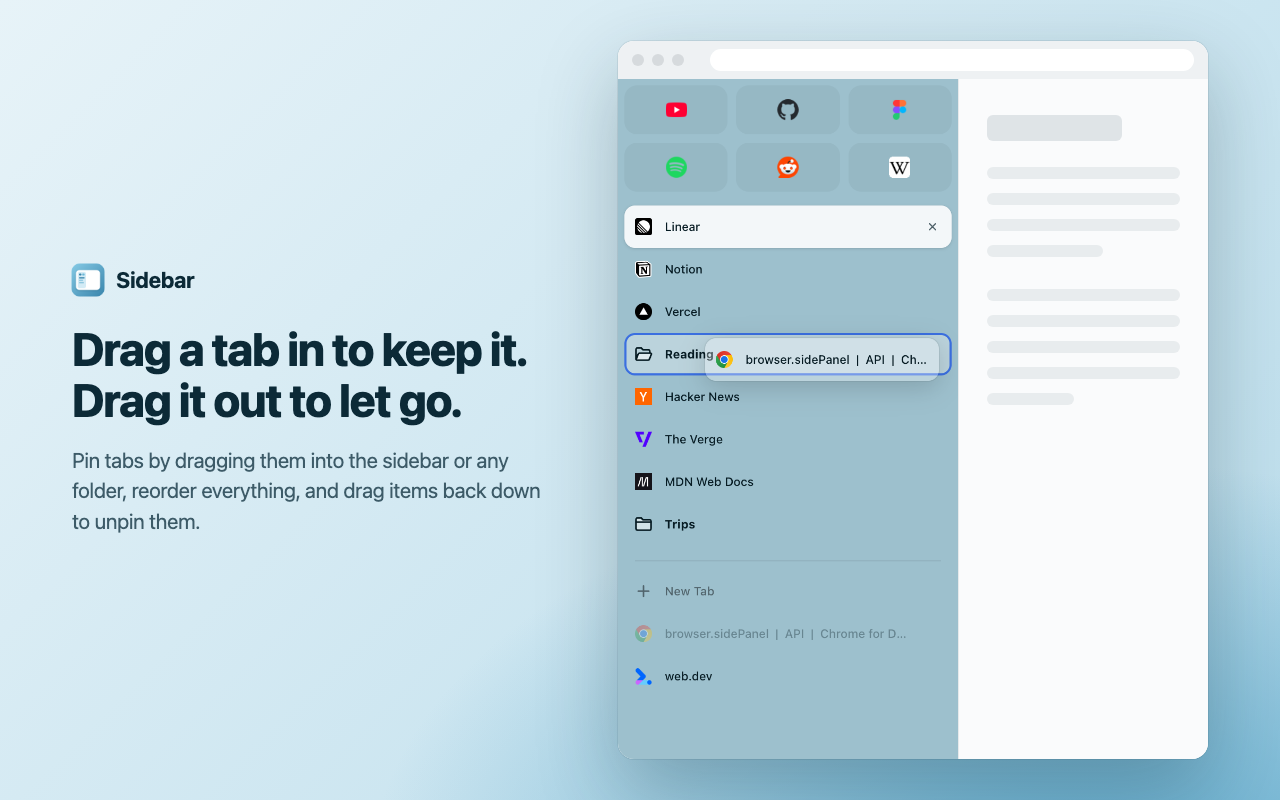
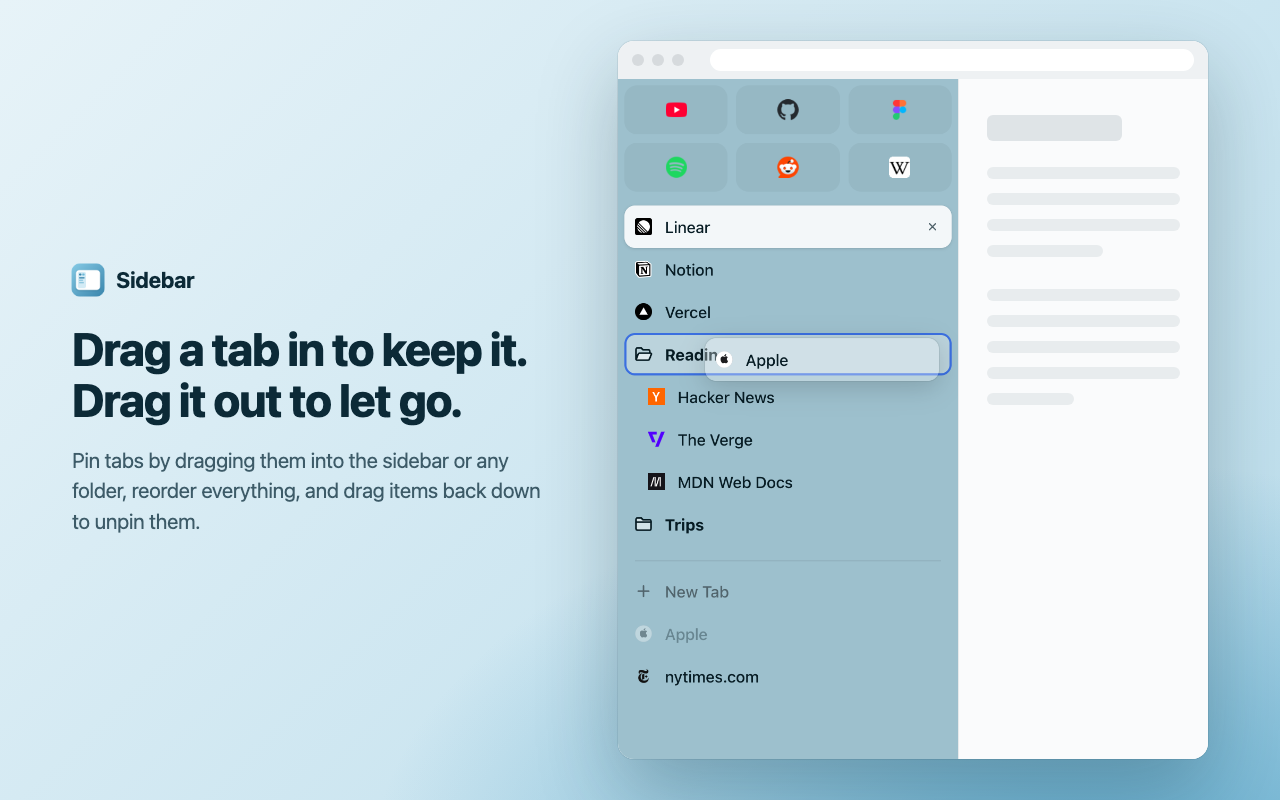
Fix panel text size, indent folder contents, add Open in Split View
- Chrome gives extension pages body { font-size: 75% }, so the panel's
  text rendered at 11.25px instead of 15px. The body now takes the size
  from :root; an e2e test guards it.
- Items inside a folder are indented 12px.
- Right-click an item or plain tab → Open in Split View (Chrome 155+
  tabs split API). Closed items open in a new tab split with the current
  one; open tabs are moved next to it, with pinned state and tab group
  matched. Favorite tabs aren't re-pinned while split.
- Store screenshots use real sites for the plain tabs.

diff --git a/src/background/controller.ts b/src/background/controller.ts
@@ -5,7 +5,7 @@ import { finalTabIndex } from '@/src/model/drop';
 import { applyOp } from '@/src/model/ops';
 import { sidebarStore } from '@/src/model/store';
 import { newId } from '@/src/model/tree';
-import type { Item, SidebarState } from '@/src/model/types';
+import type { Item, NodeId, SidebarState } from '@/src/model/types';
 
 function allItems(state: SidebarState): Item[] {
   return Object.values(state.nodes).filter((n): n is Item => n.kind === 'item');
@@ -34,7 +34,15 @@ export class Controller {
     try {
       return await task();
     } finally {
-      const { pin, unpin } = pinChanges(before, await snapshot());
+      const changes = pinChanges(before, await snapshot());
+      // A split view's two tabs must share pinned state, so a Favorite's tab stays unpinned while split.
+      const inSplit = async (id: number) => {
+        const tab = await browser.tabs.get(id).catch(() => undefined);
+        return tab?.splitViewId !== undefined && tab.splitViewId !== -1;
+      };
+      const pin = [];
+      for (const id of changes.pin) if (!(await inSplit(id))) pin.push(id);
+      const unpin = changes.unpin;
       // A tab may already be gone (closed, or the window closed); that's fine.
       await Promise.all([
         ...pin.map((id) => browser.tabs.update(id, { pinned: true }).catch(() => {})),
@@ -163,12 +171,52 @@ export class Controller {
         }
         return;
       }
+      case 'split':
+        await this.split(command.source, command.windowId);
+        return;
       case 'openFavorite': {
         const itemId = (await sidebarStore.getValue()).favorites[command.position - 1];
         if (itemId) await this.execute({ type: 'activate', itemId, windowId: command.windowId });
         return;
       }
     }
+  }
+
+  /**
+   * Puts an item's tab (or a plain tab) in a split view with the window's active tab. Chrome only
+   * splits two adjacent tabs that aren't split yet and share pinned state and tab group, so this
+   * arranges that first. An item without a tab here opens in a new tab, straight into the split.
+   */
+  private async split(source: { itemId: NodeId } | { tabId: number }, windowId: number) {
+    const [active] = await browser.tabs.query({ active: true, windowId });
+    if (active?.id === undefined) return;
+    let tabId = 'tabId' in source ? source.tabId : tabForItem(await this.links(), source.itemId, windowId);
+    if (tabId === active.id) return; // already the current tab: nothing to split with
+
+    const unsplit = async (tab: Browser.tabs.Tab) => {
+      if (tab.splitViewId !== undefined && tab.splitViewId !== -1) await browser.tabs.unsplit(tab.splitViewId);
+    };
+    await unsplit(active);
+
+    if (tabId === undefined) {
+      const item = 'itemId' in source ? (await sidebarStore.getValue()).nodes[source.itemId] : undefined;
+      if (item?.kind !== 'item') throw new Error('Nothing to open in split view');
+      const tab = await browser.tabs.create({ splitWithTabId: active.id, url: item.url, active: true });
+      if (tab.id !== undefined) await this.updateLinks((l) => linkTab(l, tab.id!, item.id, windowId));
+      return;
+    }
+
+    let tab: Browser.tabs.Tab = await browser.tabs.get(tabId);
+    await unsplit(tab);
+    if (tab.pinned !== active.pinned) tab = (await browser.tabs.update(tabId, { pinned: active.pinned })) ?? tab;
+    if (tab.groupId !== active.groupId) {
+      if (active.groupId === -1) await browser.tabs.ungroup(tabId);
+      else await browser.tabs.group({ groupId: active.groupId, tabIds: [tabId] });
+    }
+    const current = await browser.tabs.get(active.id);
+    await browser.tabs.move(tabId, { index: finalTabIndex((await browser.tabs.get(tabId)).index, current.index + 1) });
+    await browser.tabs.createSplit([active.id, tabId]);
+    await browser.tabs.update(tabId, { active: true });
   }
 
   private async moveTabTo(tabId: number, insertAt: number) {

diff --git a/e2e/sidebar.spec.ts b/e2e/sidebar.spec.ts
@@ -120,3 +120,64 @@ test('backup export and restore round-trip', async ({ context, extensionId, pane
   await expect(options.getByText('Restored')).toBeVisible();
   await expect(row(panel, 'News page')).toBeVisible();
 });
+
+test('text renders at the intended size, not Chrome’s 75% default for extension pages', async ({ panel }) => {
+  const size = await row(panel, 'News page').locator('.title').evaluate((el) => getComputedStyle(el).fontSize);
+  expect(size).toBe('15px');
+});
+
+test.describe('split view', () => {
+  const splitIds = async (worker: import('@playwright/test').Worker, ...urls: string[]) =>
+    Promise.all(urls.map(async (url) => ((await queryTabs(worker, { url }))[0] as { splitViewId?: number } | undefined)?.splitViewId));
+
+  test('opens a closed item in a new tab, split with the current tab', async ({ context, worker, panel }) => {
+    const opened = context.waitForEvent('page');
+    await row(panel, 'News page').click();
+    await (await opened).waitForURL(PAGE('news'));
+
+    await row(panel, 'Docs page').click({ button: 'right' });
+    await panel.getByRole('menuitem', { name: 'Open in Split View' }).click();
+    await expect.poll(async () => {
+      const [news, docs] = await splitIds(worker, PAGE('news'), PAGE('docs'));
+      return news !== undefined && news !== -1 && news === docs;
+    }).toBe(true);
+    // The new tab belongs to the item, so it doesn't show up as a plain tab.
+    await expect(panel.locator('.tabs .row', { hasText: 'Docs page' })).toHaveCount(0);
+  });
+
+  test('moves an item’s open tab next to the current tab instead of duplicating it', async ({ context, worker, panel }) => {
+    for (const name of ['News page', 'Docs page']) {
+      const opened = context.waitForEvent('page');
+      await row(panel, name).click();
+      await opened;
+    }
+    // A plain tab in between, so the two aren't neighbours to begin with.
+    await (await context.newPage()).goto(PAGE('between'));
+    await row(panel, 'Docs page').click(); // Docs is now the current tab
+
+    await row(panel, 'News page').click({ button: 'right' });
+    await panel.getByRole('menuitem', { name: 'Open in Split View' }).click();
+    await expect.poll(async () => {
+      const [news, docs] = await splitIds(worker, PAGE('news'), PAGE('docs'));
+      return news !== undefined && news !== -1 && news === docs;
+    }).toBe(true);
+    expect(await queryTabs(worker, { url: PAGE('news') })).toHaveLength(1);
+  });
+
+  test('splits a Favorite’s pinned tab with a normal tab by unpinning it', async ({ context, worker, panel }) => {
+    const fav = context.waitForEvent('page');
+    await panel.locator('.favorite[title="Mail page"]').click();
+    await (await fav).waitForURL(PAGE('mail'));
+    const news = context.waitForEvent('page');
+    await row(panel, 'News page').click();
+    await news;
+
+    await panel.locator('.favorite[title="Mail page"]').click({ button: 'right' });
+    await panel.getByRole('menuitem', { name: 'Open in Split View' }).click();
+    await expect.poll(async () => {
+      const [mail, newsId] = await splitIds(worker, PAGE('mail'), PAGE('news'));
+      return mail !== undefined && mail !== -1 && mail === newsId;
+    }).toBe(true);
+    expect((await queryTabs(worker, { url: PAGE('mail') }))[0]?.pinned).toBe(false);
+  });
+});

diff --git a/entrypoints/sidepanel/menus.ts b/entrypoints/sidepanel/menus.ts
@@ -16,6 +16,9 @@ export function normalizeUrl(input: string): string | undefined {
 
 const edit = (ctx: Ctx, op: SidebarOp) => ctx.run({ type: 'sidebar', op });
 
+/** Chrome 155+ lets extensions create split views. */
+export const canSplit = () => typeof browser.tabs.createSplit === 'function';
+
 /** Creates a folder and asks for its name straight away. */
 export function newFolder(ctx: Ctx, container: ContainerId, index?: number) {
   const id = newId();
@@ -28,6 +31,9 @@ export function itemMenu(ctx: Ctx, item: Item): MenuEntry[] {
   const ts = ctx.tabStateOf(item);
   return [
     ...(ts.drifted ? [{ label: 'Back to saved URL', onSelect: () => ctx.run({ type: 'reset', itemId: item.id, windowId }) }] : []),
+    ...(canSplit() && !ts.active
+      ? [{ label: 'Open in Split View', onSelect: () => ctx.run({ type: 'split', source: { itemId: item.id }, windowId }) }]
+      : []),
     ...(ts.open ? [{ label: 'Close tab', onSelect: () => ctx.run({ type: 'closeTab', itemId: item.id, windowId }) }] : []),
     {
       label: 'Rename…',

diff --git a/entrypoints/sidepanel/Tabs.tsx b/entrypoints/sidepanel/Tabs.tsx
@@ -1,6 +1,7 @@
 import { classes, faviconUrl, type Ctx } from './ctx';
 import { useSectionDrop, useTabDnd } from './dnd';
 import { CloseIcon, PlusIcon } from './icons';
+import { canSplit } from './menus';
 import type { MenuEntry } from './Menu';
 
 export type Tab = Browser.tabs.Tab & { id: number };
@@ -13,6 +14,9 @@ function tabMenu(ctx: Ctx, tab: Tab): MenuEntry[] {
   return [
     { label: 'Add to Favorites', onSelect: () => ctx.run({ type: 'saveTab', tabId: tab.id, container: 'favorites' }) },
     { label: 'Pin', onSelect: () => ctx.run({ type: 'saveTab', tabId: tab.id, container: 'pinned' }) },
+    ...(canSplit() && !tab.active
+      ? [{ label: 'Open in Split View', onSelect: () => ctx.run({ type: 'split', source: { tabId: tab.id }, windowId: ctx.windowId }) }]
+      : []),
     { label: 'Close tab', danger: true, onSelect: () => browser.tabs.remove(tab.id) },
   ];
 }

diff --git a/entrypoints/sidepanel/style.css b/entrypoints/sidepanel/style.css
@@ -17,7 +17,7 @@ button { font: inherit; color: inherit; background: none; border: 0; cursor: poi
 
 /* Rows: pinned items, folders, tabs */
 .tree { list-style: none; margin: 0; padding: 0; }
-.tree .tree { padding-left: 0; } /* Arc doesn't indent folder contents */
+.tree .tree { padding-left: 12px; } /* a small indent shows what's inside a folder */
 .row { display: flex; align-items: center; gap: 12px; width: 100%; height: 40px; padding: 0 8px 0 10px; border-radius: 10px; text-align: left; cursor: default; outline: none; font-weight: 500; }
 .row:hover, .row:focus-visible { background: var(--hover); }
 .row.active { background: var(--active); box-shadow: var(--active-shadow); }

diff --git a/src/messages.ts b/src/messages.ts
@@ -18,6 +18,8 @@ export type Command =
   | { type: 'moveTab'; tabId: number; index: number }
   /** Pin the tab if it's a plain tab; otherwise remove its Favorite or pinned item and keep the tab. */
   | { type: 'togglePin'; tabId: number }
+  /** Show an item (or a plain tab) side by side with the window's current tab, using Chrome's split view. */
+  | { type: 'split'; source: { itemId: NodeId } | { tabId: number }; windowId: number }
   /** Activate the Favorite at `position` (1-based). */
   | { type: 'openFavorite'; position: number; windowId: number };
 

diff --git a/src/ui/theme.css b/src/ui/theme.css
@@ -41,4 +41,5 @@
   }
 }
 * { box-sizing: border-box; }
-body { margin: 0; background: var(--bg); color: var(--fg); -webkit-font-smoothing: antialiased; }
+/* Chrome gives extension pages `body { font-size: 75% }`; take the size from :root instead. */
+body { margin: 0; background: var(--bg); color: var(--fg); font: inherit; -webkit-font-smoothing: antialiased; }

diff --git a/PLAN.md b/PLAN.md
@@ -44,6 +44,9 @@ Out (for now): Spaces, Today auto-archive, Archive, Split View, Peek, Little Arc
 - Folders: click to collapse/expand, state persisted. Rename/delete via right-click menu. Deleting a non-empty folder asks for confirmation. No "open all".
 - The Tabs list follows Chrome's tab order (new tabs at the bottom). Dragging in the list moves the real Chrome tab.
 
+### Split view
+- Right-click → Open in Split View (items and plain tabs, Chrome 155+, hidden otherwise). An item without a tab opens in a new tab split with the current one; an open tab is moved next to the current tab, with pinned state and tab group matched, then split. A Favorite's tab stays unpinned while it's in a split.
+
 ### Keyboard shortcuts (`chrome.commands`)
 - Defaults: toggle sidebar (⌥S), pin/unpin current tab (⌥D). Pin/unpin on a Favorite or pinned item's tab removes the item and keeps the tab.
 - Toggle works by open panels holding a port to the worker; closing asks the panel to `window.close()`.

diff --git a/store/LISTING.md b/store/LISTING.md
@@ -29,6 +29,9 @@ Paste-ready text for the Chrome Web Store Developer Dashboard. The images are in
 > DRAG AND DROP
 > Drag an open tab into the sidebar or a folder to keep it. Drag items around to reorder them. Drag an item down into your tabs to unpin it.
 >
+> SPLIT VIEW
+> Right-click any item or tab and choose Open in Split View to see it side by side with the page you're on (Chrome 155 or later).
+>
 > IMPORT FROM ARC
 > Moving from the Arc browser? Import your Favorites, pinned tabs, folders and your Space's color from Arc's sidebar file in one step.
 >
